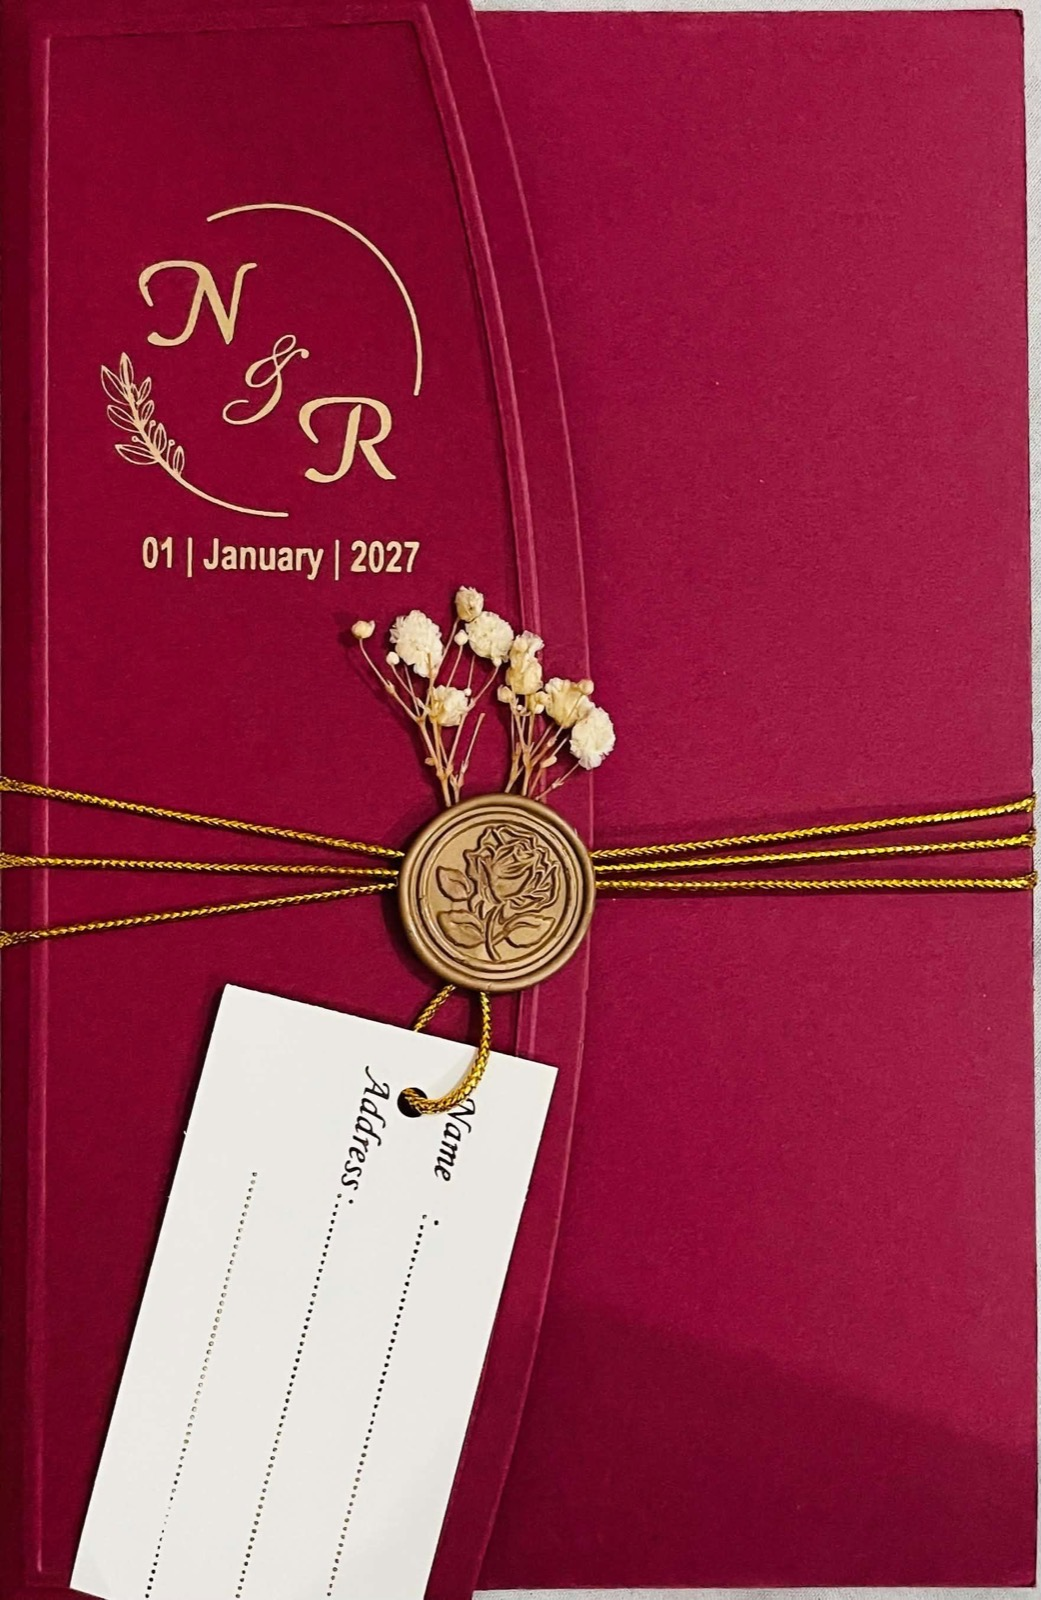
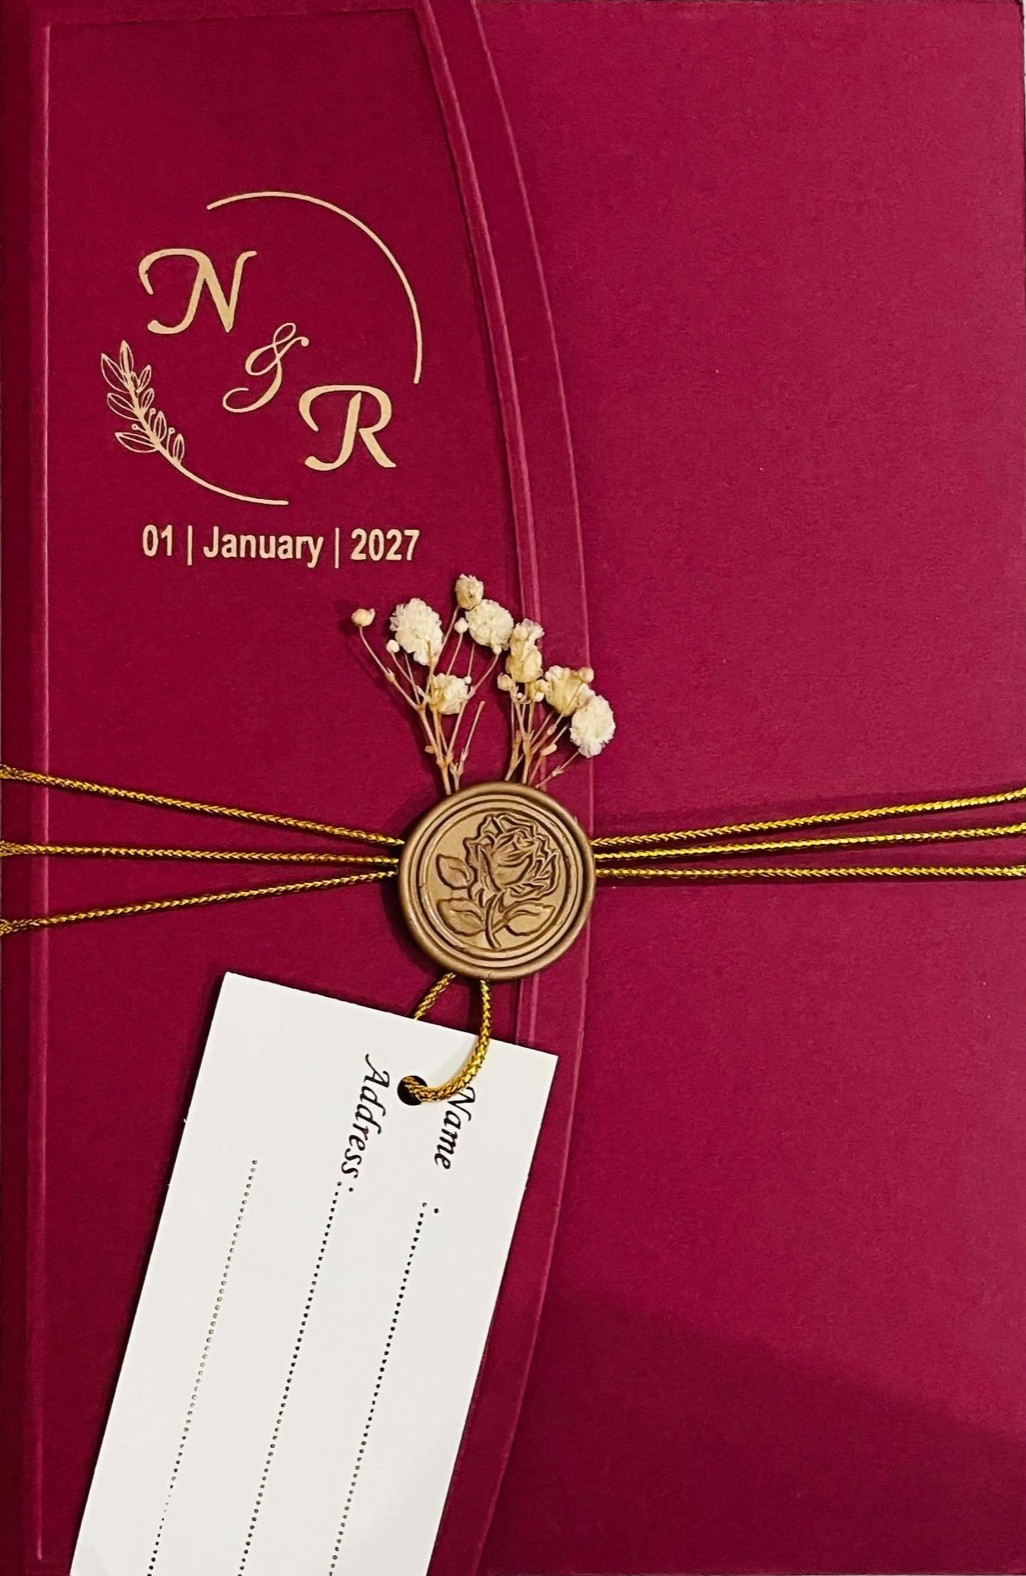
Switch to half-jacket opening, crop photo edges, clean reflection
The curved front flap now swings open on its left hinge while the
string band slides off, revealing the invitation like the real card.
Cropped the white table edges from the photos and removed the camera
reflection from the invitation.

diff --git a/style.css b/style.css
@@ -3,7 +3,7 @@
   --deep: #3a0617;
   --gold: #e6c58a;
   --gold-soft: rgba(230, 197, 138, .55);
-  --ratio: 1041 / 1600;
+  --ratio: 1026 / 1576;
 }
 
 * { box-sizing: border-box; margin: 0; padding: 0; }
@@ -51,7 +51,7 @@ body.opened .hint { opacity: 0; animation: none; }
 
 .card {
   position: relative;
-  width: min(92vw, calc(78dvh * 1041 / 1600), 520px);
+  width: min(92vw, calc(78dvh * 1026 / 1576), 520px);
   aspect-ratio: var(--ratio);
   transition: transform 1.2s cubic-bezier(.6, .05, .25, 1);
   transform-style: preserve-3d;
@@ -74,23 +74,45 @@ body.opened .hint { opacity: 0; animation: none; }
   cursor: zoom-in;
 }
 
-.cover {
+/* ---------- half jacket ---------- */
+.jacket {
+  position: absolute;
+  inset: 0;
+  transform-style: preserve-3d;
+  z-index: 2;
+}
+body.opened .jacket { pointer-events: none; }
+
+/* Right band of the jacket (gold strings over the back panel): slides off first */
+.sleeve {
+  position: absolute;
+  inset: 0;
+  clip-path: polygon(45.8% 0%, 48.5% 5.6%, 51% 11.9%, 52.9% 18.3%, 54.9% 24.6%, 56% 31%, 56.8% 37.3%, 57.3% 43.7%, 57.5% 50%, 57.3% 56.3%, 56.8% 62.7%, 55.8% 69%, 54.4% 75.4%, 52.9% 81.7%, 51% 88.1%, 48.5% 94.4%, 45.8% 100%, 100% 100%, 100% 0%);
+  transition: transform .9s cubic-bezier(.5, 0, .3, 1) 1.3s, opacity .9s ease 1.3s;
+}
+body.opened .sleeve {
+  transform: translateX(14%);
+  opacity: 0;
+  transition-delay: 0s;
+}
+
+/* Curved front flap, hinged on the left edge */
+.flap {
   position: absolute;
   inset: 0;
   transform-origin: left center;
   transform-style: preserve-3d;
-  transition: transform 1.8s cubic-bezier(.6, .05, .25, 1), opacity .6s ease 1.6s;
-  z-index: 2;
+  transition: transform 1.7s cubic-bezier(.6, .05, .25, 1), opacity .5s ease;
 }
-body.opened .cover {
-  transform: rotateY(-165deg);
+body.opened .flap {
+  transform: rotateY(-170deg);
   opacity: 0;
-  pointer-events: none;
+  transition: transform 1.7s cubic-bezier(.6, .05, .25, 1) .45s, opacity .6s ease 1.9s;
 }
-/* Wide screens: slide over and keep the cover open like a book */
+/* Wide screens: slide over and keep the flap open beside the invitation */
 @media (min-width: 1100px) {
-  body.opened .card { transform: translateX(48%); }
-  body.opened .cover { opacity: 1; }
+  body.opened .card { transform: translateX(29%); }
+  body.opened .flap { transform: rotateY(-178deg); opacity: 1; }
 }
 
 .face {
@@ -98,23 +120,25 @@ body.opened .cover {
   inset: 0;
   backface-visibility: hidden;
   -webkit-backface-visibility: hidden;
-  border-radius: 6px;
 }
-.front { box-shadow: 0 25px 60px rgba(0, 0, 0, .55); }
+.front { filter: drop-shadow(5px 0 6px rgba(0, 0, 0, .35)); }
+.front img {
+  clip-path: polygon(0% 0%, 46.2% 0%, 48.9% 5.6%, 51.4% 11.9%, 53.3% 18.3%, 55.3% 24.6%, 56.4% 31%, 57.2% 37.3%, 57.7% 43.7%, 57.9% 50%, 57.7% 56.3%, 57.2% 62.7%, 56.2% 69%, 54.8% 75.4%, 53.3% 81.7%, 51.4% 88.1%, 48.9% 94.4%, 46.2% 100%, 0% 100%);
+}
 .back {
   transform: rotateY(180deg);
+  clip-path: polygon(100% 0%, 53.8% 0%, 51.1% 5.6%, 48.6% 11.9%, 46.7% 18.3%, 44.7% 24.6%, 43.6% 31%, 42.8% 37.3%, 42.3% 43.7%, 42.1% 50%, 42.3% 56.3%, 42.8% 62.7%, 43.8% 69%, 45.2% 75.4%, 46.7% 81.7%, 48.6% 88.1%, 51.1% 94.4%, 53.8% 100%, 100% 100%);
   background:
-    linear-gradient(90deg, rgba(0,0,0,.25), transparent 30%),
-    radial-gradient(circle at 60% 40%, #a3164a, var(--wine) 70%);
-  box-shadow: inset 0 0 0 10px rgba(0,0,0,.08), inset 0 0 0 12px var(--gold-soft);
+    linear-gradient(270deg, rgba(0,0,0,.3), transparent 25%),
+    radial-gradient(circle at 70% 45%, #b01c50, var(--wine) 75%);
 }
 
 /* ---------- wax seal hotspot ---------- */
 .seal {
   position: absolute;
-  left: 47.6%;
-  top: 55%;
-  width: 22%;
+  left: 48.4%;
+  top: 55.1%;
+  width: 20%;
   aspect-ratio: 1;
   transform: translate(-50%, -50%);
   border: 0;
@@ -301,6 +325,6 @@ h2 {
 }
 
 @media (prefers-reduced-motion: reduce) {
-  .cover, .card { transition-duration: .01s; }
+  .sleeve, .flap, .card { transition-duration: .01s !important; transition-delay: 0s !important; }
   .seal::before, .seal::after, .hint { animation: none; }
 }

diff --git a/index.html b/index.html
@@ -27,11 +27,14 @@
   <main class="stage">
     <div class="card" id="card">
       <img class="inside" src="images/inside.jpg" alt="Wedding invitation of Nafiza Dalowar Lamia and Mehraz Hossain Rumman, Friday 01 January 2027 at 7:00 pm, Sadek Hossain Khoka Community Center, Motijheel, Dhaka">
-      <div class="cover" id="cover">
-        <div class="face front">
-          <img src="images/cover.jpg" alt="Card cover with N &amp; R monogram, 01 January 2027, tied with gold string and a rose wax seal">
+      <div class="jacket" id="cover">
+        <img class="sleeve" src="images/cover.jpg" alt="">
+        <div class="flap">
+          <div class="face front">
+            <img src="images/cover.jpg" alt="Half jacket cover with N &amp; R monogram, 01 January 2027, tied with gold string and a rose wax seal">
+          </div>
+          <div class="face back"></div>
         </div>
-        <div class="face back"></div>
       </div>
       <button class="seal" id="seal" aria-label="Open the invitation"></button>
     </div>

diff --git a/script.js b/script.js
@@ -24,7 +24,7 @@
       setTimeout(function () {
         details.scrollIntoView({ behavior: reduceMotion ? "auto" : "smooth", block: "start" });
       }, 1400);
-    }, reduceMotion ? 0 : 1200);
+    }, reduceMotion ? 0 : 1900);
   }
 
   function close() {
